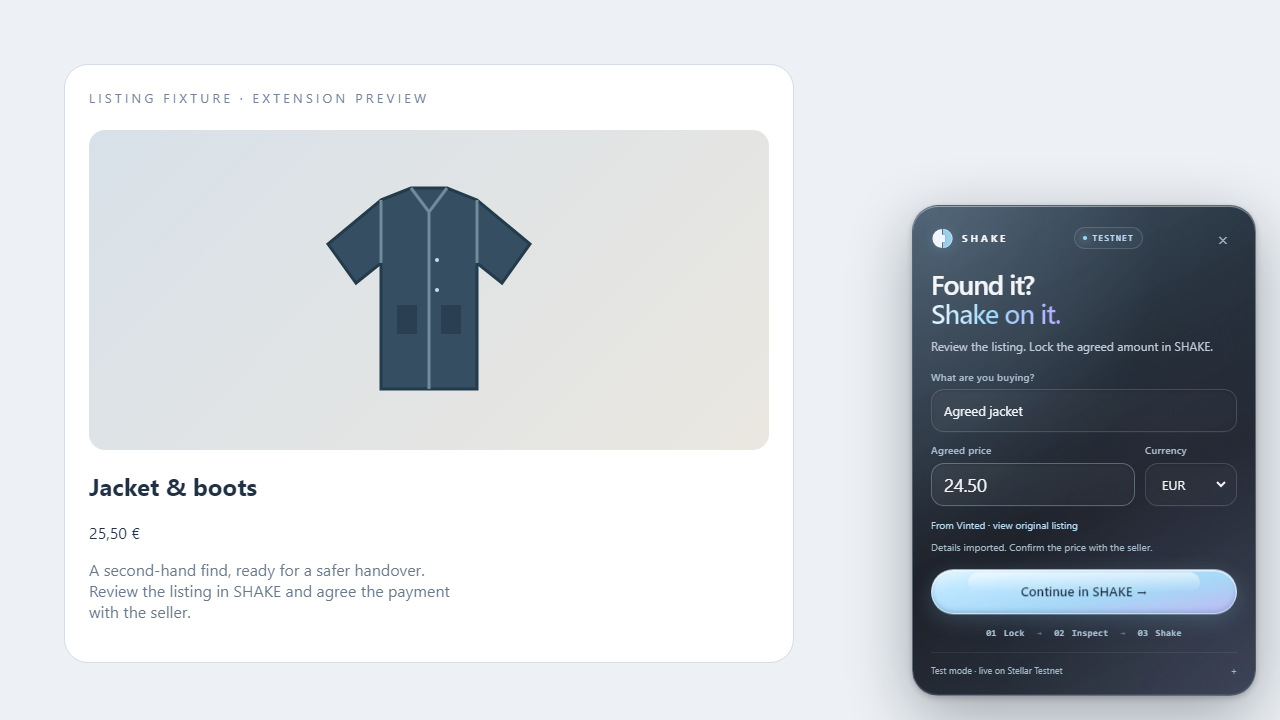
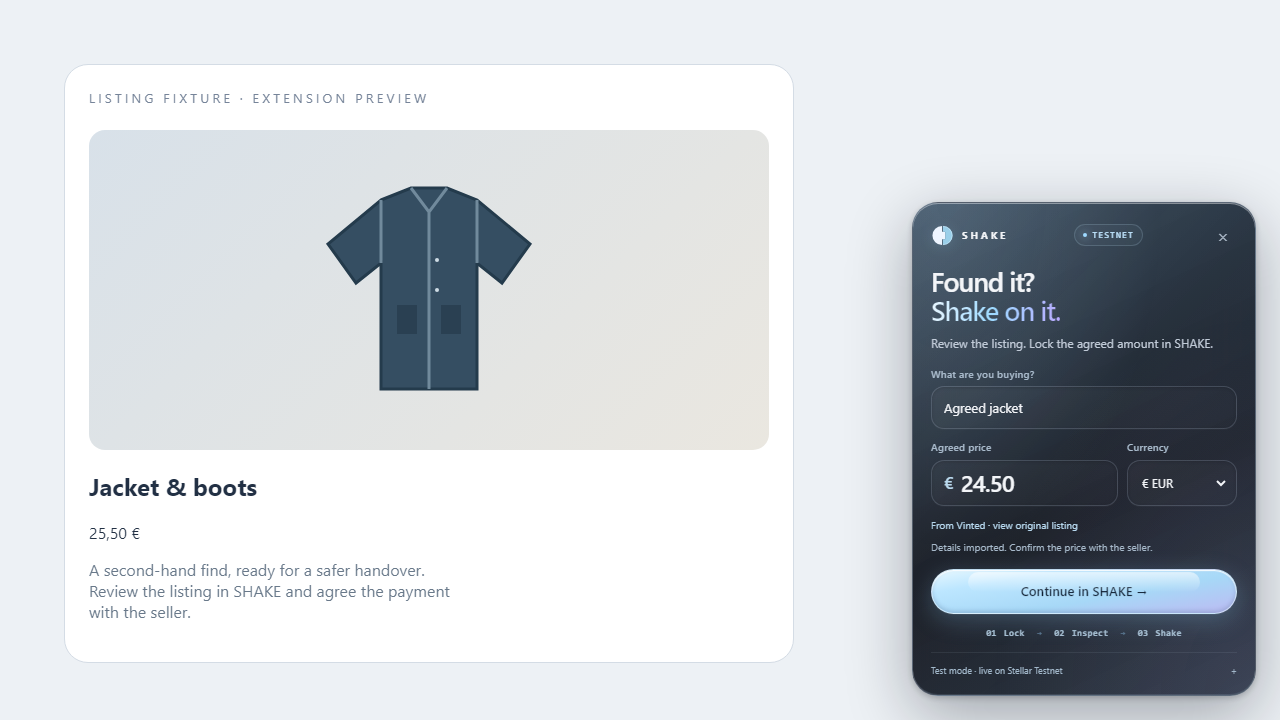
Now major imrpvoemtns on mcp and extension

diff --git a/extension/content.js b/extension/content.js
@@ -57,6 +57,10 @@
       .steps{display:flex;align-items:center;justify-content:center;gap:12px;margin-top:13px;font:9px ui-monospace,monospace;color:#a9c1d3;letter-spacing:.3px}.steps span{color:#5d7c95}.note{margin-top:14px;padding-top:11px;border-top:1px solid #d4e9ff14;font-size:9px;line-height:1.5;color:#90a5b8}.note summary{cursor:pointer;list-style:none;color:#a3b9cc}.note summary:after{content:" +";float:right}.note[open] summary:after{content:" −"}.note p{font-size:9px;color:#90a5b8;margin:8px 0 0}
       @media(max-width:480px){.card{padding:18px}}
       @media(prefers-reduced-motion:reduce){*{animation:none!important;transition:none!important}}
+      .amount-field{display:flex;align-items:center;gap:8px;height:46px;padding:0 12px;border:1px solid #d1e5ff29;border-radius:13px;background:linear-gradient(150deg,#ffffff0a,#ffffff03);box-shadow:inset 0 1px 3px #0002,0 1px 0 #ffffff06}
+      .amount-field:focus-within{border-color:#bfe5ff80;outline:2px solid #a4dcff;outline-offset:3px;background:#b8dfff0b}.amount-symbol{flex-shrink:0;font-size:17px;font-weight:500;color:#bad9ed;letter-spacing:-.5px}
+      .amount-field #shake-price{min-width:0;width:100%;height:42px;padding:0;border:0;outline:none;background:transparent;box-shadow:none;font-size:23px;font-weight:500;letter-spacing:-.7px;-moz-appearance:textfield}.amount-field #shake-price::-webkit-inner-spin-button,.amount-field #shake-price::-webkit-outer-spin-button{-webkit-appearance:none;margin:0}
+      .row{grid-template-columns:minmax(0,1fr) 110px;gap:9px}#shake-currency{height:46px;padding-left:10px;font-size:12px}
     `;
     root.append(style);
     if (!open) {
@@ -85,11 +89,15 @@
       price.value = listing.price;
       const code = el("select", { id: "shake-currency", required: "" });
       code.append(el("option", { value: "" }, "Choose"));
-      for (const c of ["EUR", "USD", "GBP", "BRL"]) code.append(el("option", { value: c }, c));
+      const symbols = { EUR: "€", USD: "US$", GBP: "£", BRL: "R$" };
+      for (const c of ["EUR", "USD", "GBP", "BRL"]) code.append(el("option", { value: c }, `${symbols[c]} ${c}`));
       code.value = ["EUR", "USD", "GBP", "BRL"].includes(listing.currency) ? listing.currency : "";
+      const amountSymbol = el("span", { class: "amount-symbol", "aria-hidden": "true" }, symbols[code.value] || "—");
+      const amountField = el("div", { class: "amount-field" });
+      amountField.append(amountSymbol, price);
       const row = el("div", { class: "row" });
       const a = el("div"), b = el("div");
-      a.append(el("label", { for: "shake-price" }, "Agreed price"), price);
+      a.append(el("label", { for: "shake-price" }, "Agreed price"), amountField);
       b.append(el("label", { for: "shake-currency" }, "Currency"), code); row.append(a, b);
       const warning = el("p", { class: "warning", role: "status" });
       if (listing.currency && !code.value) {
@@ -101,6 +109,7 @@
         warning.textContent = "Check the price and currency. This page did not provide both reliably.";
       } else warning.textContent = "Details imported. Confirm the price with the seller.";
       code.onchange = () => {
+        amountSymbol.textContent = symbols[code.value] || "—";
         if (code.value && code.value !== listing.currency) {
           price.value = "";
           warning.dataset.tone = "warning";
